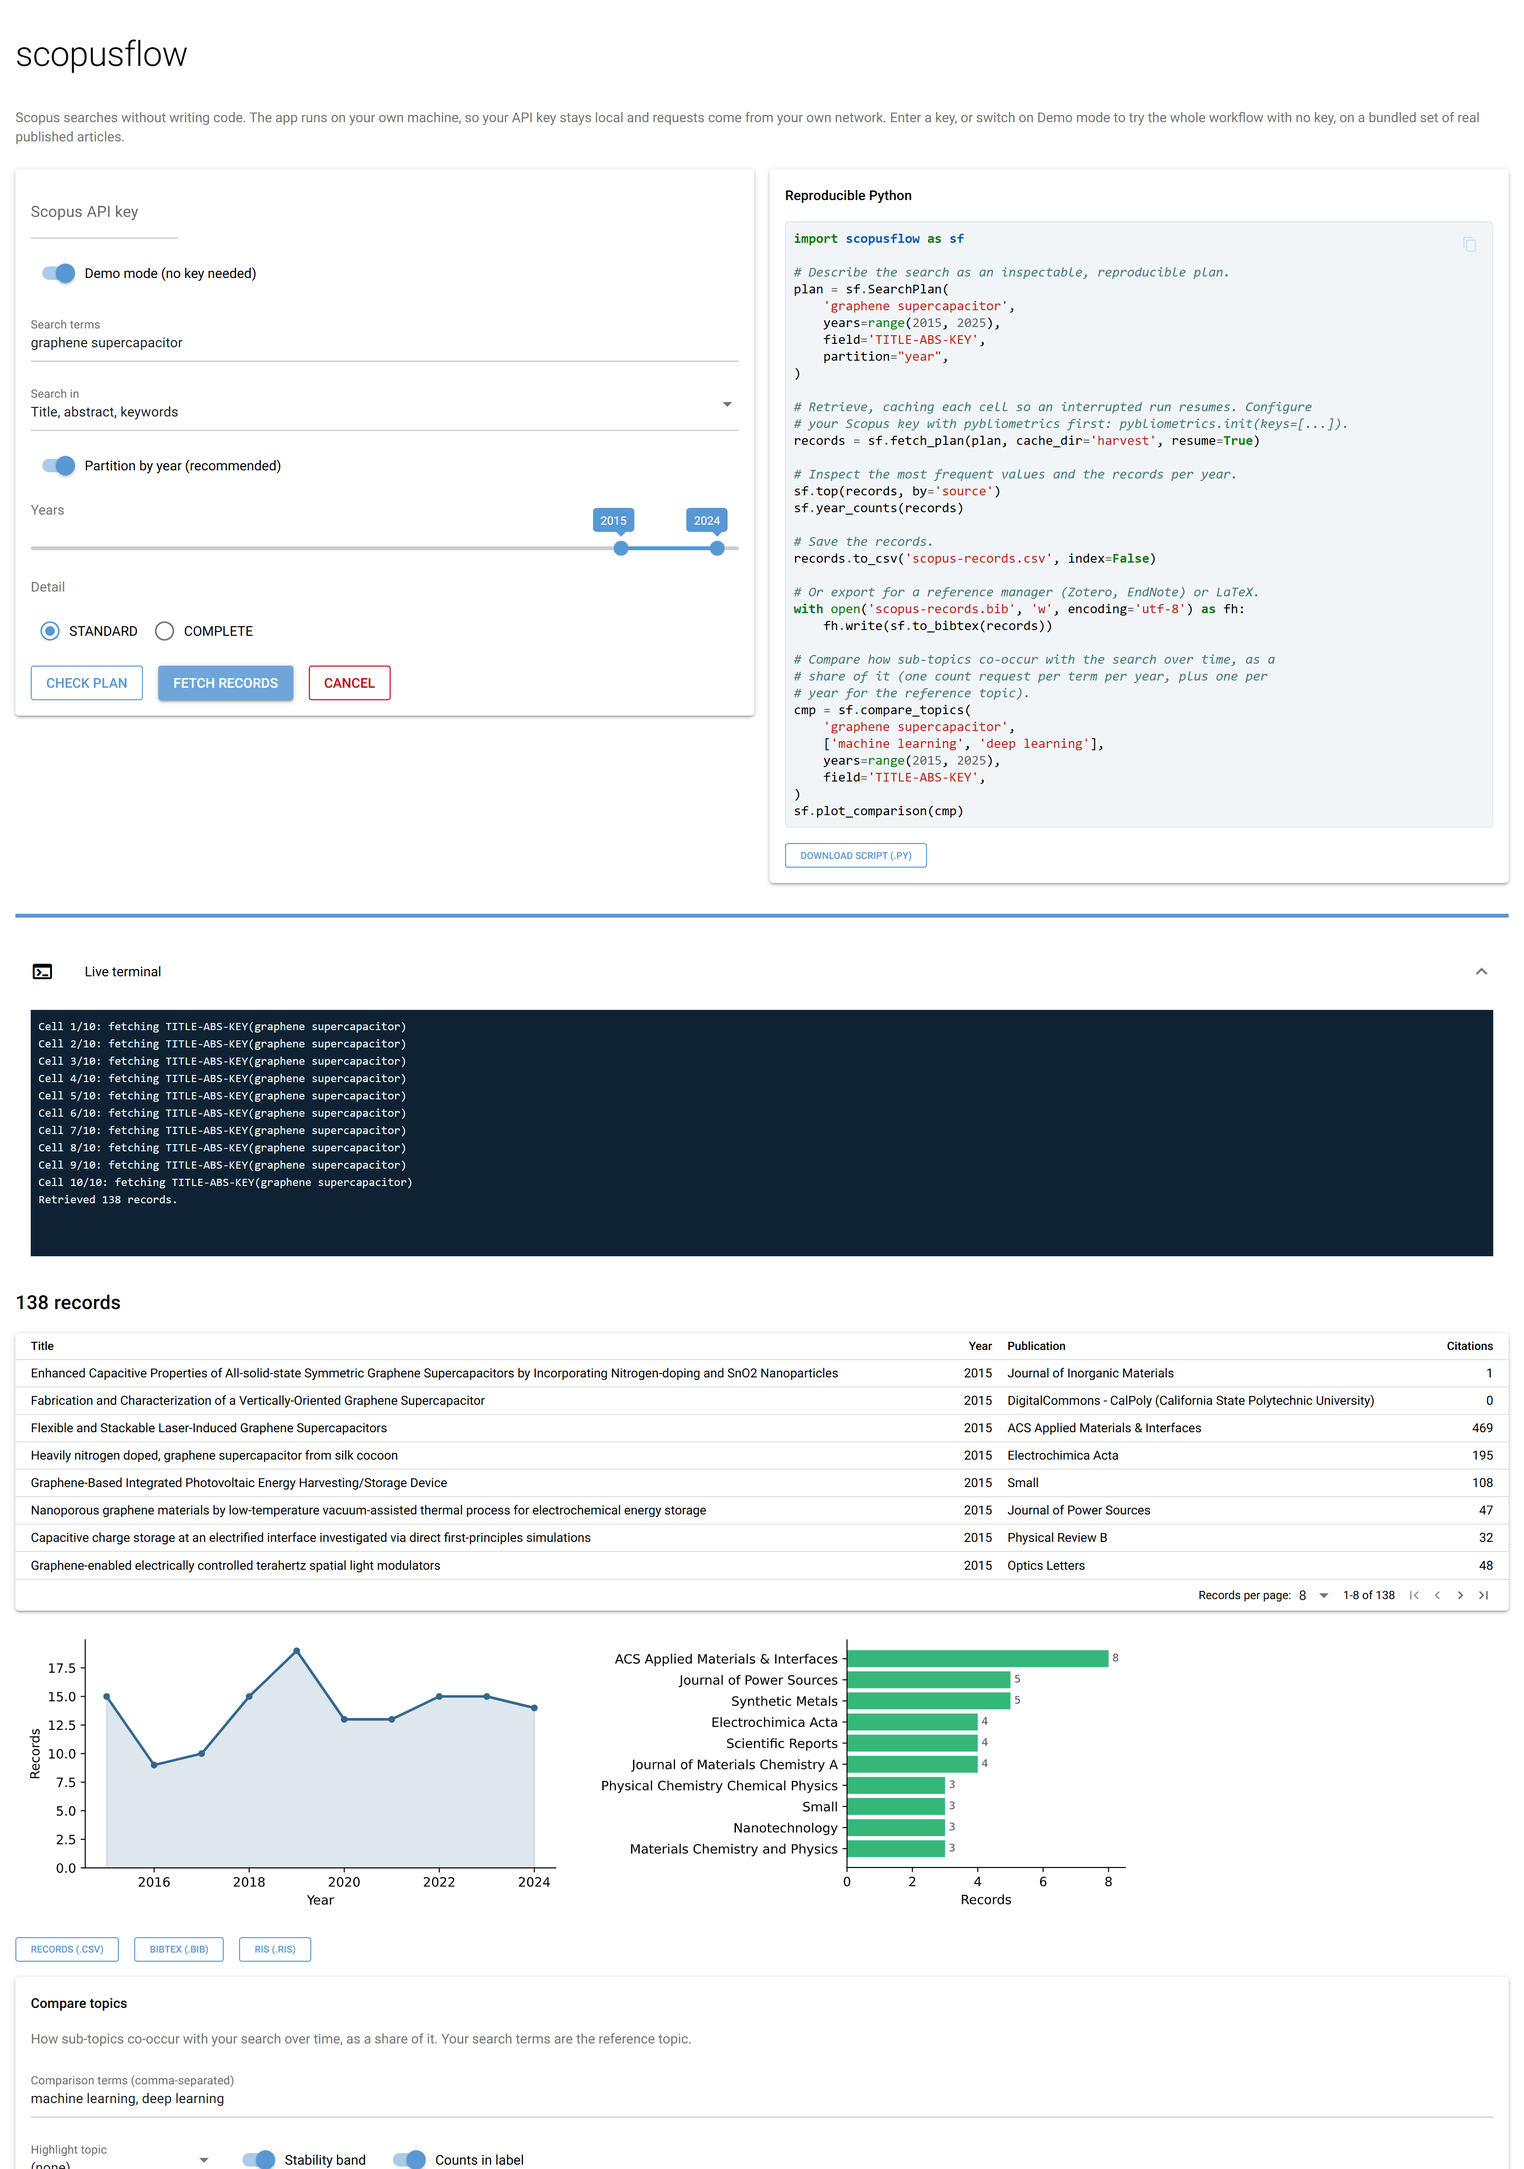
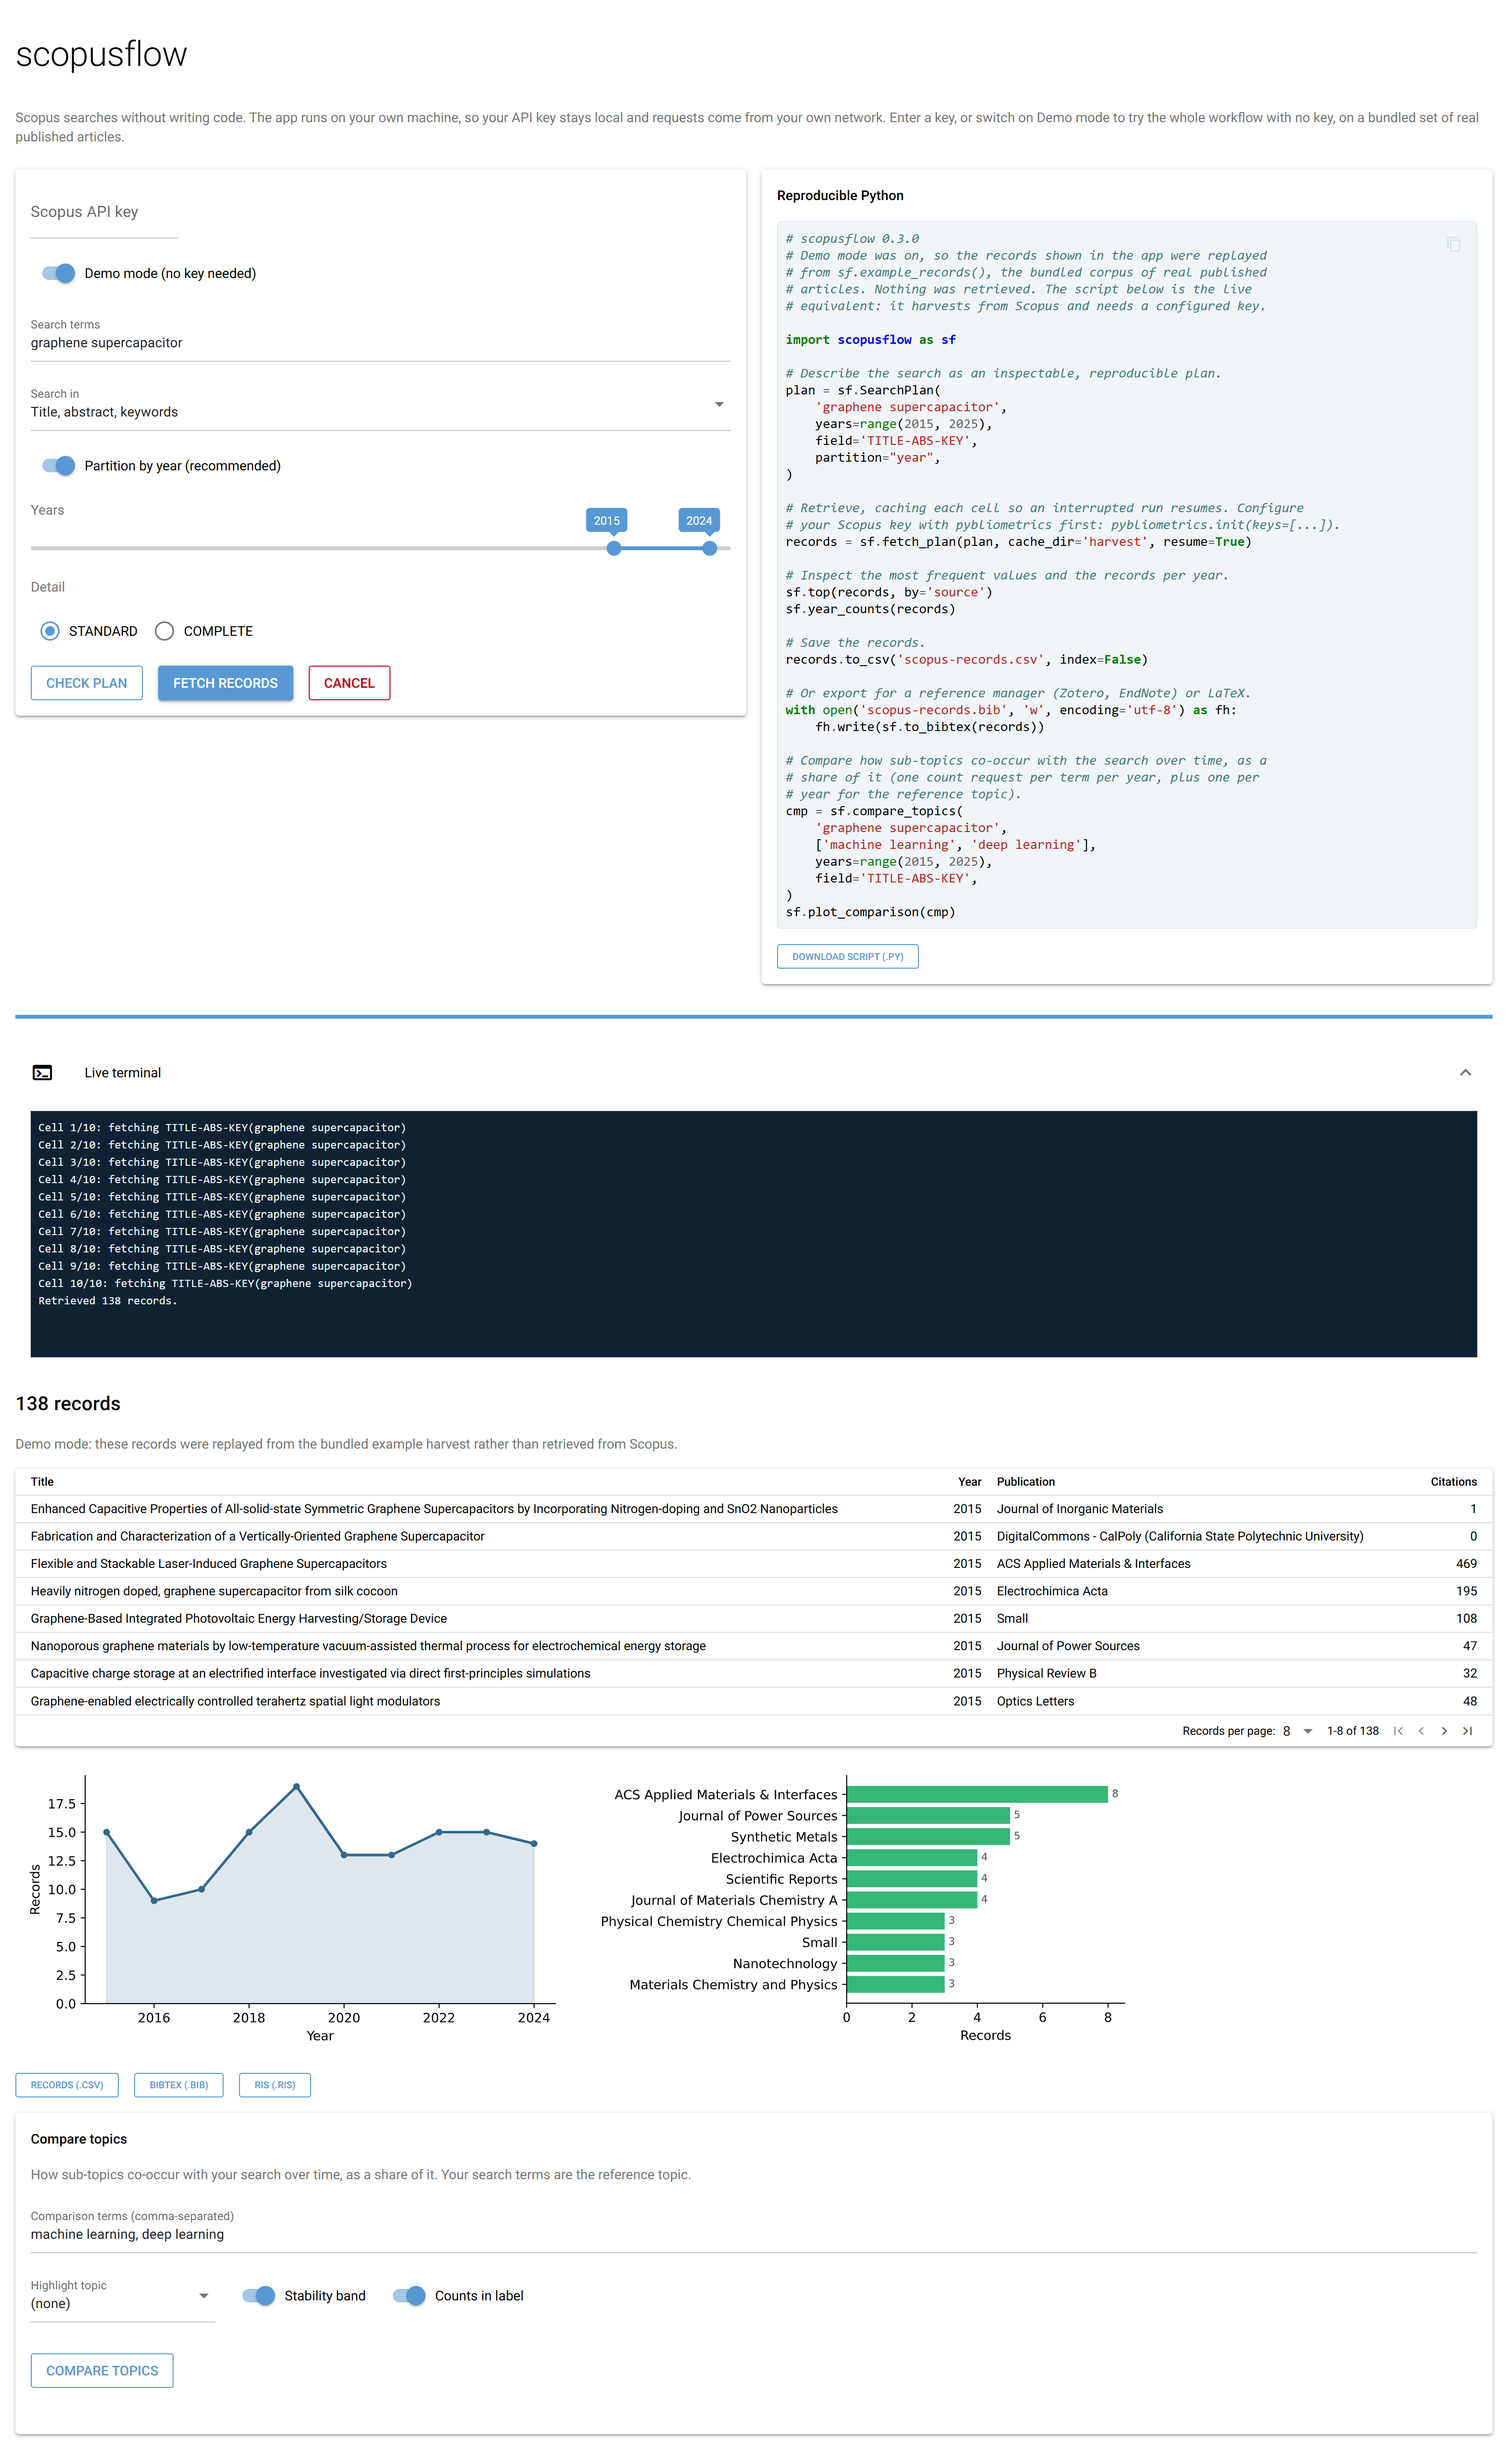
Recapture the app screenshot the reproducible-script changes made stale
CONTRIBUTING flags docs/assets/app-window.png and app-compare.png as the two
figures that drift silently, since every other figure on the site is rendered
at build time. The Reproducible Python panel now opens with a version line and
four demo-mode comments, and the results table carries a demo-mode note, so the
committed app-window.png no longer showed the app it documents. Recaptured from
scopusflow-gui in demo mode, which needs no key, at the same width and device
scale as the original.

app-compare.png was checked against a fresh capture and is unchanged: it frames
the Compare topics card only, which neither the panel nor the table appears in.
Left as it was rather than committing an identical image.

The alt text gains the demo-mode note it did not previously describe. mkdocs
build --strict is clean.

diff --git a/docs/guides/the-app.md b/docs/guides/the-app.md
@@ -29,7 +29,7 @@ What the replay serves is real: 138 published articles on graphene supercapacito
 
 The window below is the app in demo mode just after a harvest, so everything in it was produced without a key. The search card sits on the left and the reproducible Python panel on the right, with the live terminal, the record count, the paginated table and the two figures filling the area beneath them.
 
-![The scopusflow app in demo mode. The search card on the left holds the API key field, the demo-mode switch, the search terms, the field selector, the year range set to 2015 to 2024, and the Check plan, Fetch records and Cancel buttons. The Reproducible Python panel on the right shows the generated script and a Download script button. Below them sit the Live terminal expansion listing ten fetched cells, a count of 138 records, a paginated table of real article titles with their years, journals and citation counts, and two figures: records per year, which rises to a peak in 2019 and settles between thirteen and fifteen thereafter, and the most frequent journals, headed by ACS Applied Materials and Interfaces with eight records.](../assets/app-window.png)
+![The scopusflow app in demo mode. The search card on the left holds the API key field, the demo-mode switch, the search terms, the field selector, the year range set to 2015 to 2024, and the Check plan, Fetch records and Cancel buttons. The Reproducible Python panel on the right shows the generated script and a Download script button. Below them sit the Live terminal expansion listing ten fetched cells, a count of 138 records, a note that in demo mode those records were replayed from the bundled example harvest rather than retrieved, a paginated table of real article titles with their years, journals and citation counts, and two figures: records per year, which rises to a peak in 2019 and settles between thirteen and fifteen thereafter, and the most frequent journals, headed by ACS Applied Materials and Interfaces with eight records.](../assets/app-window.png)
 
 Demo mode hands back records with the same stable [`RECORD_COLUMNS`][scopusflow.records.RECORD_COLUMNS] schema a real harvest returns, so the table, the trend plot and the source plot behave exactly as they will against the live API. When you are ready for real results, paste your Scopus API key into the field at the top and switch Demo mode off. The key stays in the running process and is never written to the generated script.
 
